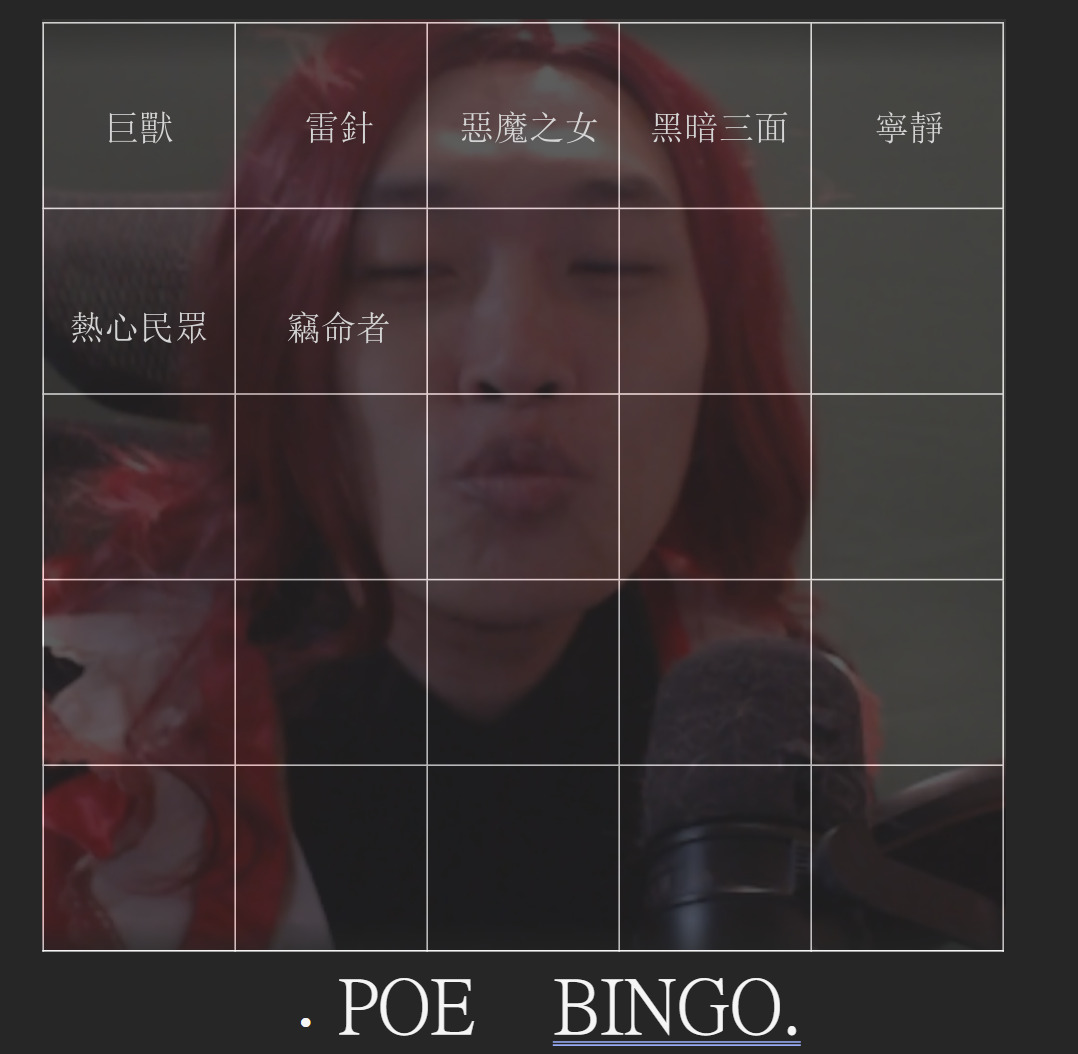
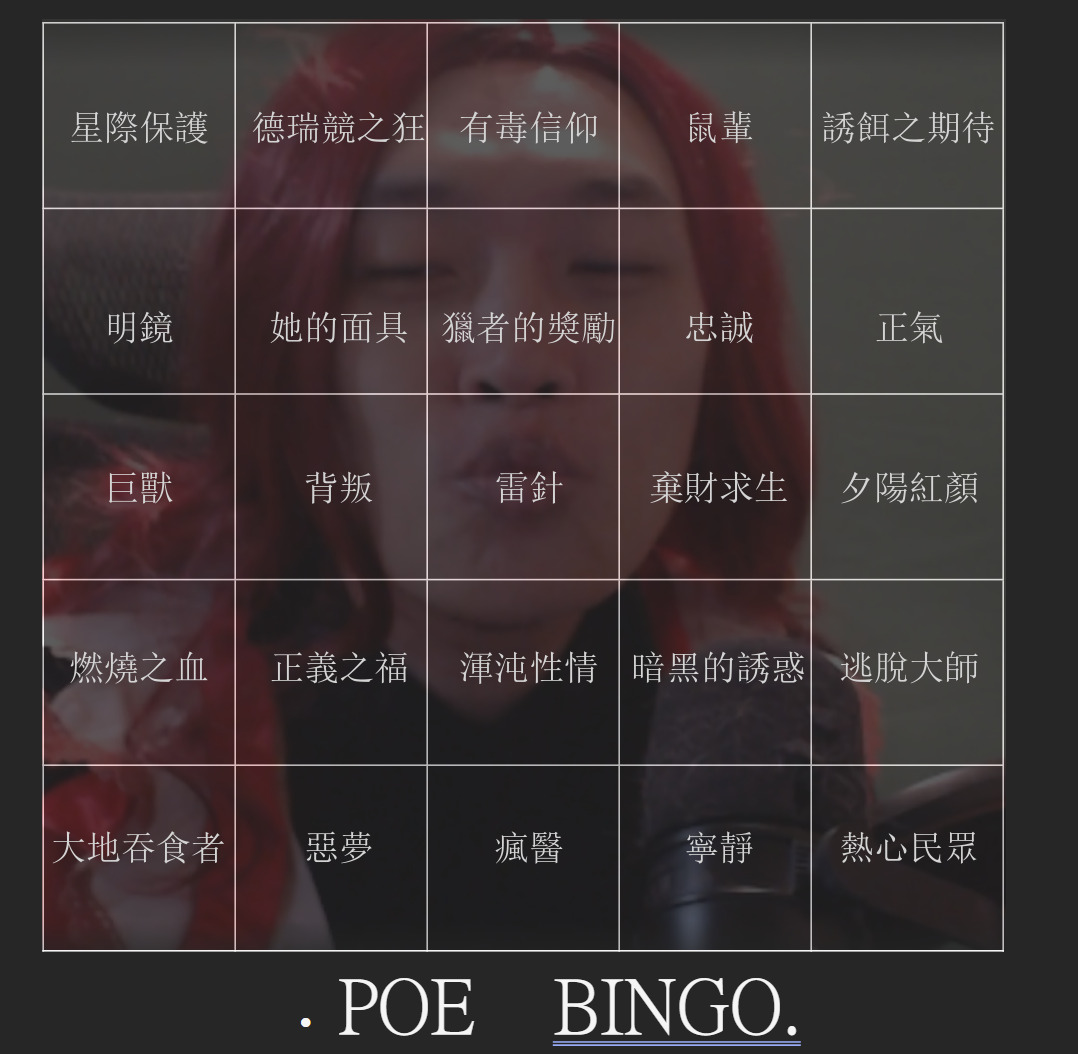
try some custom weight

diff --git a/app/controllers/bingos_controller.rb b/app/controllers/bingos_controller.rb
@@ -1,17 +1,8 @@
 class BingosController < ApplicationController
-  # before_action :clean_params, only: [:index, :create]
-
   require "rmagick"
 
   def index
   end
-
-  # def create
-  #   print clean_params
-
-  #   @card_ids = clean_params
-  #   render :action => :index
-  # end
 
   def random
   end
@@ -23,7 +14,18 @@ class BingosController < ApplicationController
       @card_ids = []
     end
 
-    if @card_ids.any? && @card_ids.length <= 25
+    if @card_ids.length == 25 && params[:results]
+      @results = results_params
+
+      # @results = @results.to_enum.sort_by(&:last)
+
+      @results = @results.to_enum.to_h.sort_by { |k| k.last.to_i }
+    else
+      @results = []
+    end
+
+    if @results.any? && @results.length <= 25
+
       images_path = "public/images"
       @file_name = "self_selected.jpg"
       file_path = images_path + "/" + @file_name
@@ -43,7 +45,7 @@ class BingosController < ApplicationController
       y_axis = [ -400, -200, -40, 140, 320 ]
       x = 0
       y = 0
-      @card_ids.each do |card|
+      @results.each do |card, value|
         if card.length > 5
           text.pointsize = 20
         else
@@ -117,5 +119,9 @@ class BingosController < ApplicationController
   private
     def clean_params
       params.require(:card_ids)
+    end
+
+    def results_params
+      params.require(:results)
     end
 end
